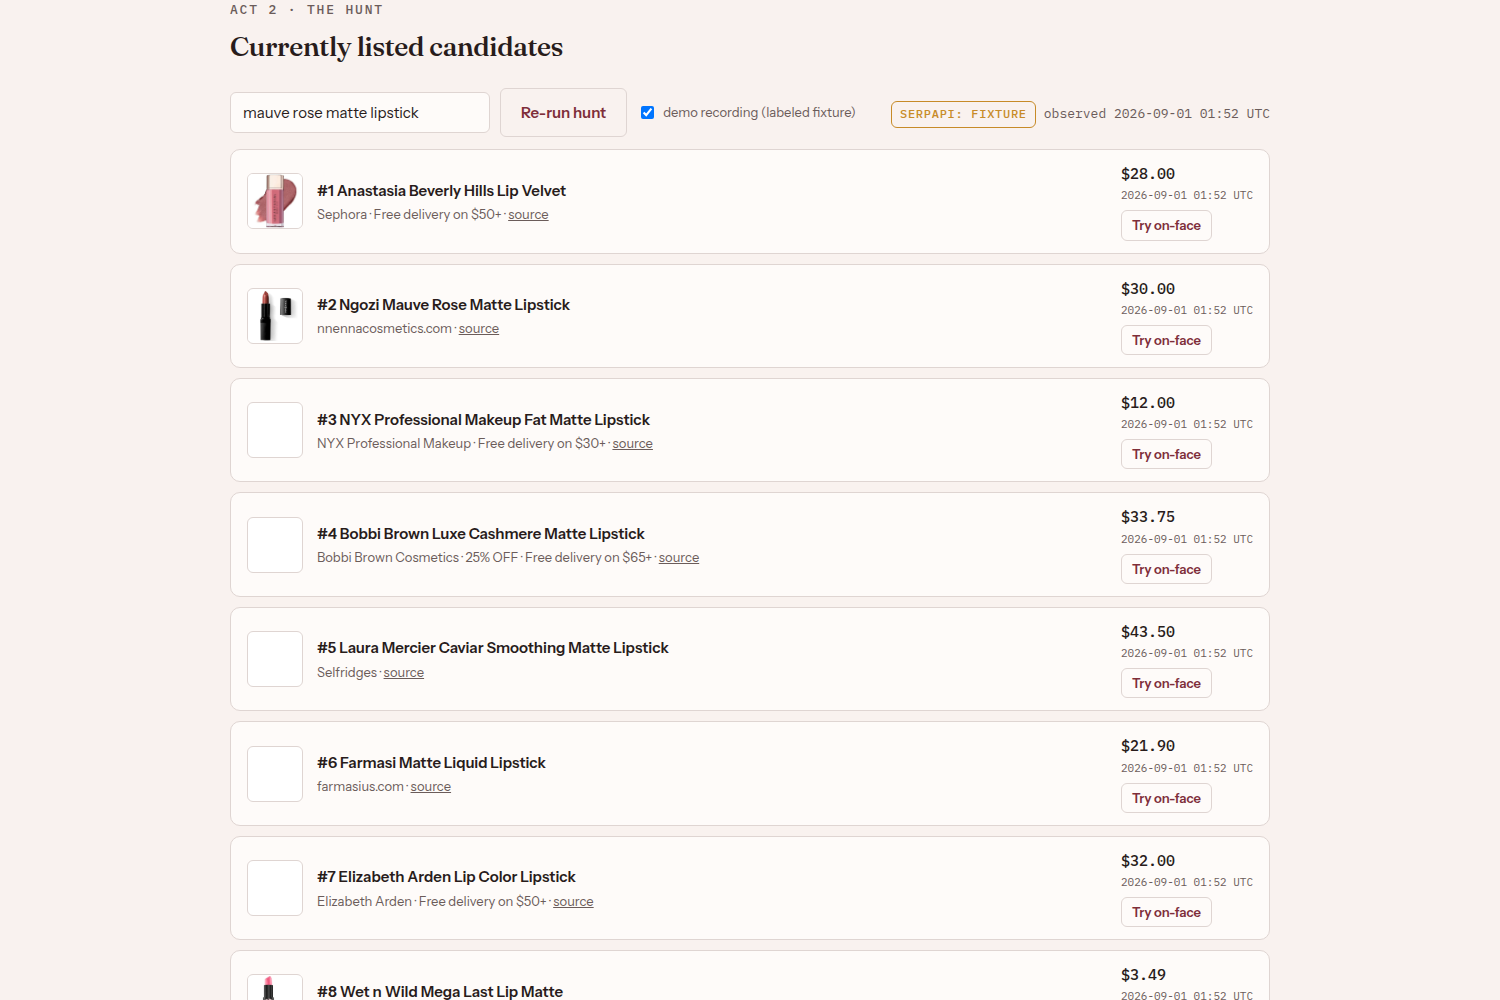
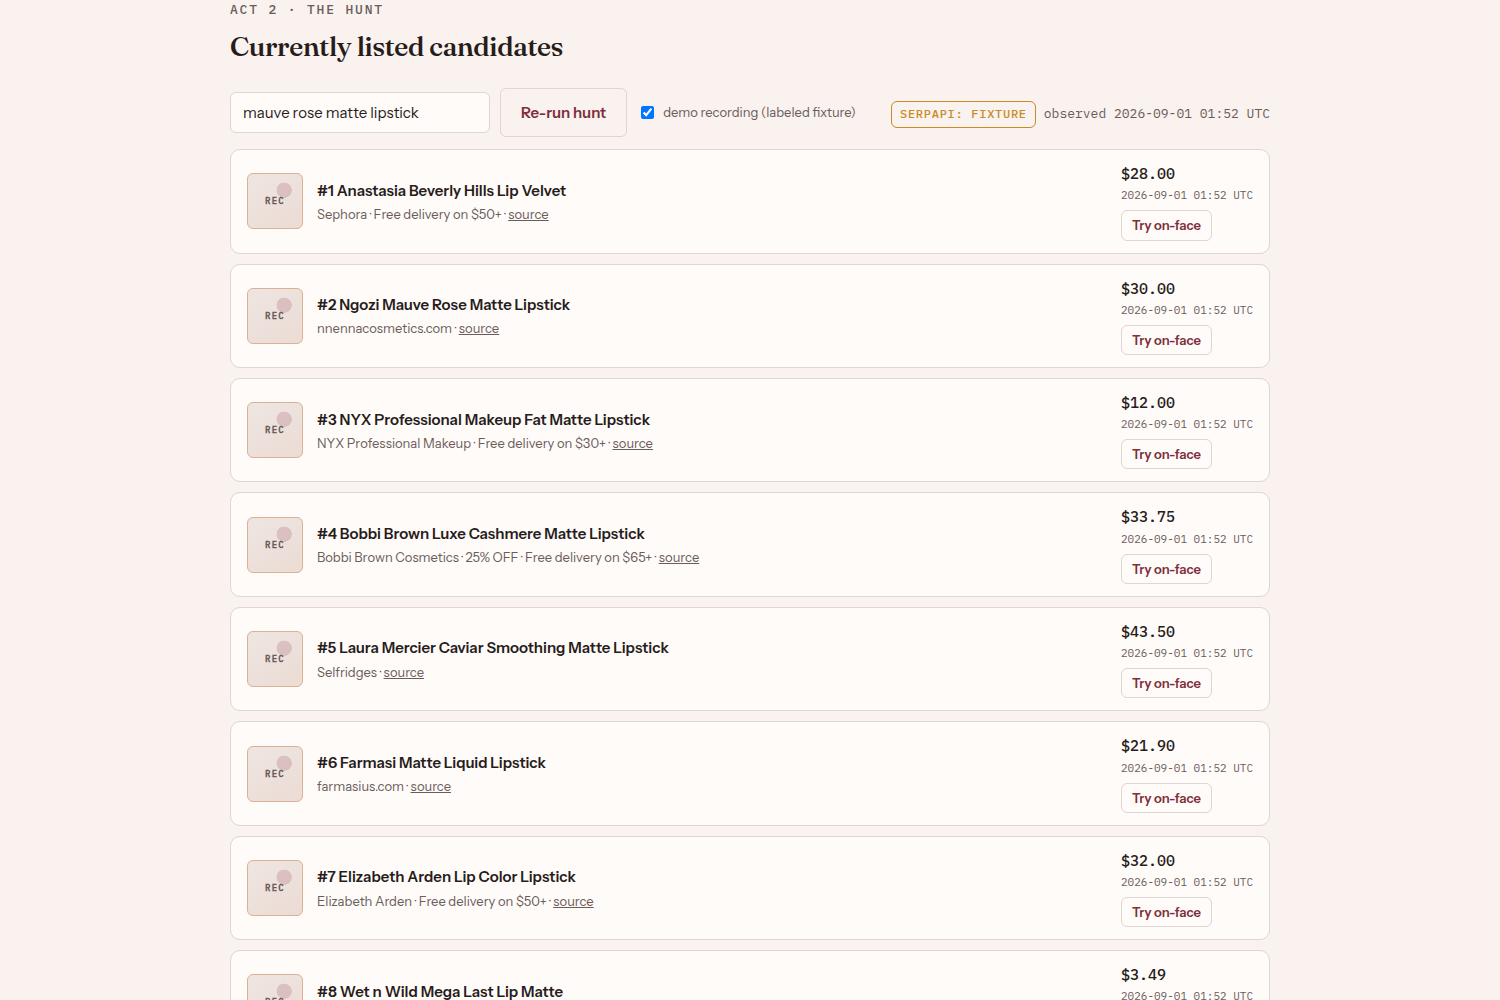
fix: make fixture captures deterministic

diff --git a/scripts/capture-demo.ts b/scripts/capture-demo.ts
@@ -60,12 +60,16 @@ async function main(): Promise<void> {
       const page = await browser.newPage({ viewport: { width: 1440, height: 900 } });
       const browserErrors: string[] = [];
       const forbiddenRequests: string[] = [];
+      const externalImageRequests: string[] = [];
       page.on('console', (message) => {
         if (message.type() === 'error') browserErrors.push(message.text());
       });
       page.on('pageerror', (error) => browserErrors.push(error.message));
       page.on('request', (request) => {
         const url = new URL(request.url());
+        if (request.resourceType() === 'image' && url.origin !== new URL(baseUrl).origin) {
+          externalImageRequests.push(request.url());
+        }
         if (url.pathname === '/api/search' && url.searchParams.get('mode') !== 'fixture') {
           forbiddenRequests.push(request.url());
         }
@@ -75,6 +79,13 @@ async function main(): Promise<void> {
       });
 
       await page.goto(`${baseUrl}/?mode=demo`, { waitUntil: 'networkidle' });
+      // Judge screenshots are evidence stills, not motion proof. Freeze CSS timing
+      // so the same fixture state produces byte-stable PNGs across rehearsals;
+      // the real app retains its shade/reveal motion for the recorded demo.
+      await page.addStyleTag({
+        content:
+          '*,*::before,*::after{animation:none!important;transition:none!important;caret-color:transparent!important}.shade-bridge-wipe{display:none!important}',
+      });
       await page.getByText('Demo recording armed').waitFor();
       await page.screenshot({ path: path.join(screenshotDir, 'judge-demo-opening.png') });
       await page.setViewportSize({ width: 1500, height: 1000 });
@@ -86,6 +97,12 @@ async function main(): Promise<void> {
         .click();
       await page.getByRole('button', { name: 'Find living replacements' }).click();
       await page.getByText('SERPAPI: FIXTURE').waitFor();
+      const remoteFixtureThumbnails = await page.locator('.candidate-row img[src^="http"]').count();
+      if (remoteFixtureThumbnails > 0) {
+        throw new Error(
+          `fixture hunt rendered ${remoteFixtureThumbnails} remote product thumbnails`,
+        );
+      }
       await page.setViewportSize({ width: 1500, height: 1000 });
       await page.locator('[aria-labelledby="act2-title"]').scrollIntoViewIfNeeded();
       await page.screenshot({ path: path.join(screenshotDir, 'judge-devpost-hunt.png') });
@@ -106,6 +123,11 @@ async function main(): Promise<void> {
       }
       if (browserErrors.length > 0) {
         throw new Error(`browser console errors: ${browserErrors.join(' | ')}`);
+      }
+      if (externalImageRequests.length > 0) {
+        throw new Error(
+          `demo capture requested non-local image assets: ${externalImageRequests.join(', ')}`,
+        );
       }
       await page.getByText('The fixture has a paper trail.').waitFor();
 
@@ -135,7 +157,7 @@ async function main(): Promise<void> {
       });
 
       console.log(
-        '[capture:demo] PASS — production artifact, 2-candidate FIXTURE flow, 3+ fixture badges, zero live provider requests, zero browser errors',
+        '[capture:demo] PASS — production artifact, 2-candidate FIXTURE flow, 3+ fixture badges, zero live provider or non-local image requests, zero browser errors',
       );
     } finally {
       await browser.close();

diff --git a/src/components/EvidencePanel.tsx b/src/components/EvidencePanel.tsx
@@ -111,7 +111,14 @@ export function EvidencePanel({
               const capReached = !selected && shortlist.length >= SHORTLIST_CAP;
               return (
                 <li key={c.id} className="candidate-row" data-selected={selected}>
-                  {c.thumbnailUrl ? (
+                  {dataSource === 'fixture' ? (
+                    <div
+                      className="thumb-fallback thumb-fixture"
+                      aria-hidden="true"
+                    >
+                      rec
+                    </div>
+                  ) : c.thumbnailUrl ? (
                     <img className="thumb" src={c.thumbnailUrl} alt="" loading="lazy" />
                   ) : (
                     <div className="thumb-fallback" aria-hidden="true" />

diff --git a/src/styles.css b/src/styles.css
@@ -496,6 +496,21 @@ body {
   background: var(--muted);
 }
 
+.candidate-row .thumb-fixture {
+  display: grid;
+  place-items: center;
+  border: 1px solid color-mix(in oklch, var(--status-fixture) 45%, var(--border));
+  background:
+    radial-gradient(circle at 67% 30%, color-mix(in oklch, var(--shade) 28%, transparent) 0 14%, transparent 15%),
+    linear-gradient(145deg, var(--muted), color-mix(in oklch, var(--card) 78%, var(--shade)));
+  color: var(--muted-foreground);
+  font-family: var(--font-mono);
+  font-size: 9px;
+  font-weight: 600;
+  letter-spacing: 0.14em;
+  text-transform: uppercase;
+}
+
 .candidate-row .title {
   font-weight: 600;
   margin: 0;

diff --git a/README.md b/README.md
@@ -78,8 +78,11 @@ npm run capture:demo
 The capture command starts the production-built app, opens `/?mode=demo` in the installed Chrome,
 drives Backtalk through a two-candidate verdict, and writes six screenshots under
 `docs/screenshots/`. It fails if the browser attempts a live SerpApi, Perfect Corp, or merchant-image
-request, if fewer than three `FIXTURE` badges render, if the browser reports an error, or if the
-mobile verdict overflows horizontally. Set `CHROME_PATH` only when Chrome is installed elsewhere.
+request, if fixture rows render remote product thumbnails, if any non-local image is requested, if
+fewer than three `FIXTURE` badges render, if the browser reports an error, or if the mobile verdict
+overflows horizontally. Fixture listing thumbnails are deliberately replaced by local `REC`
+placeholders; the merchant image URLs remain in the sanitized receipt, but the judge-demo pixels do
+not depend on them. Set `CHROME_PATH` only when Chrome is installed elsewhere.
 
 ## Deployment shape (human gate)
 
